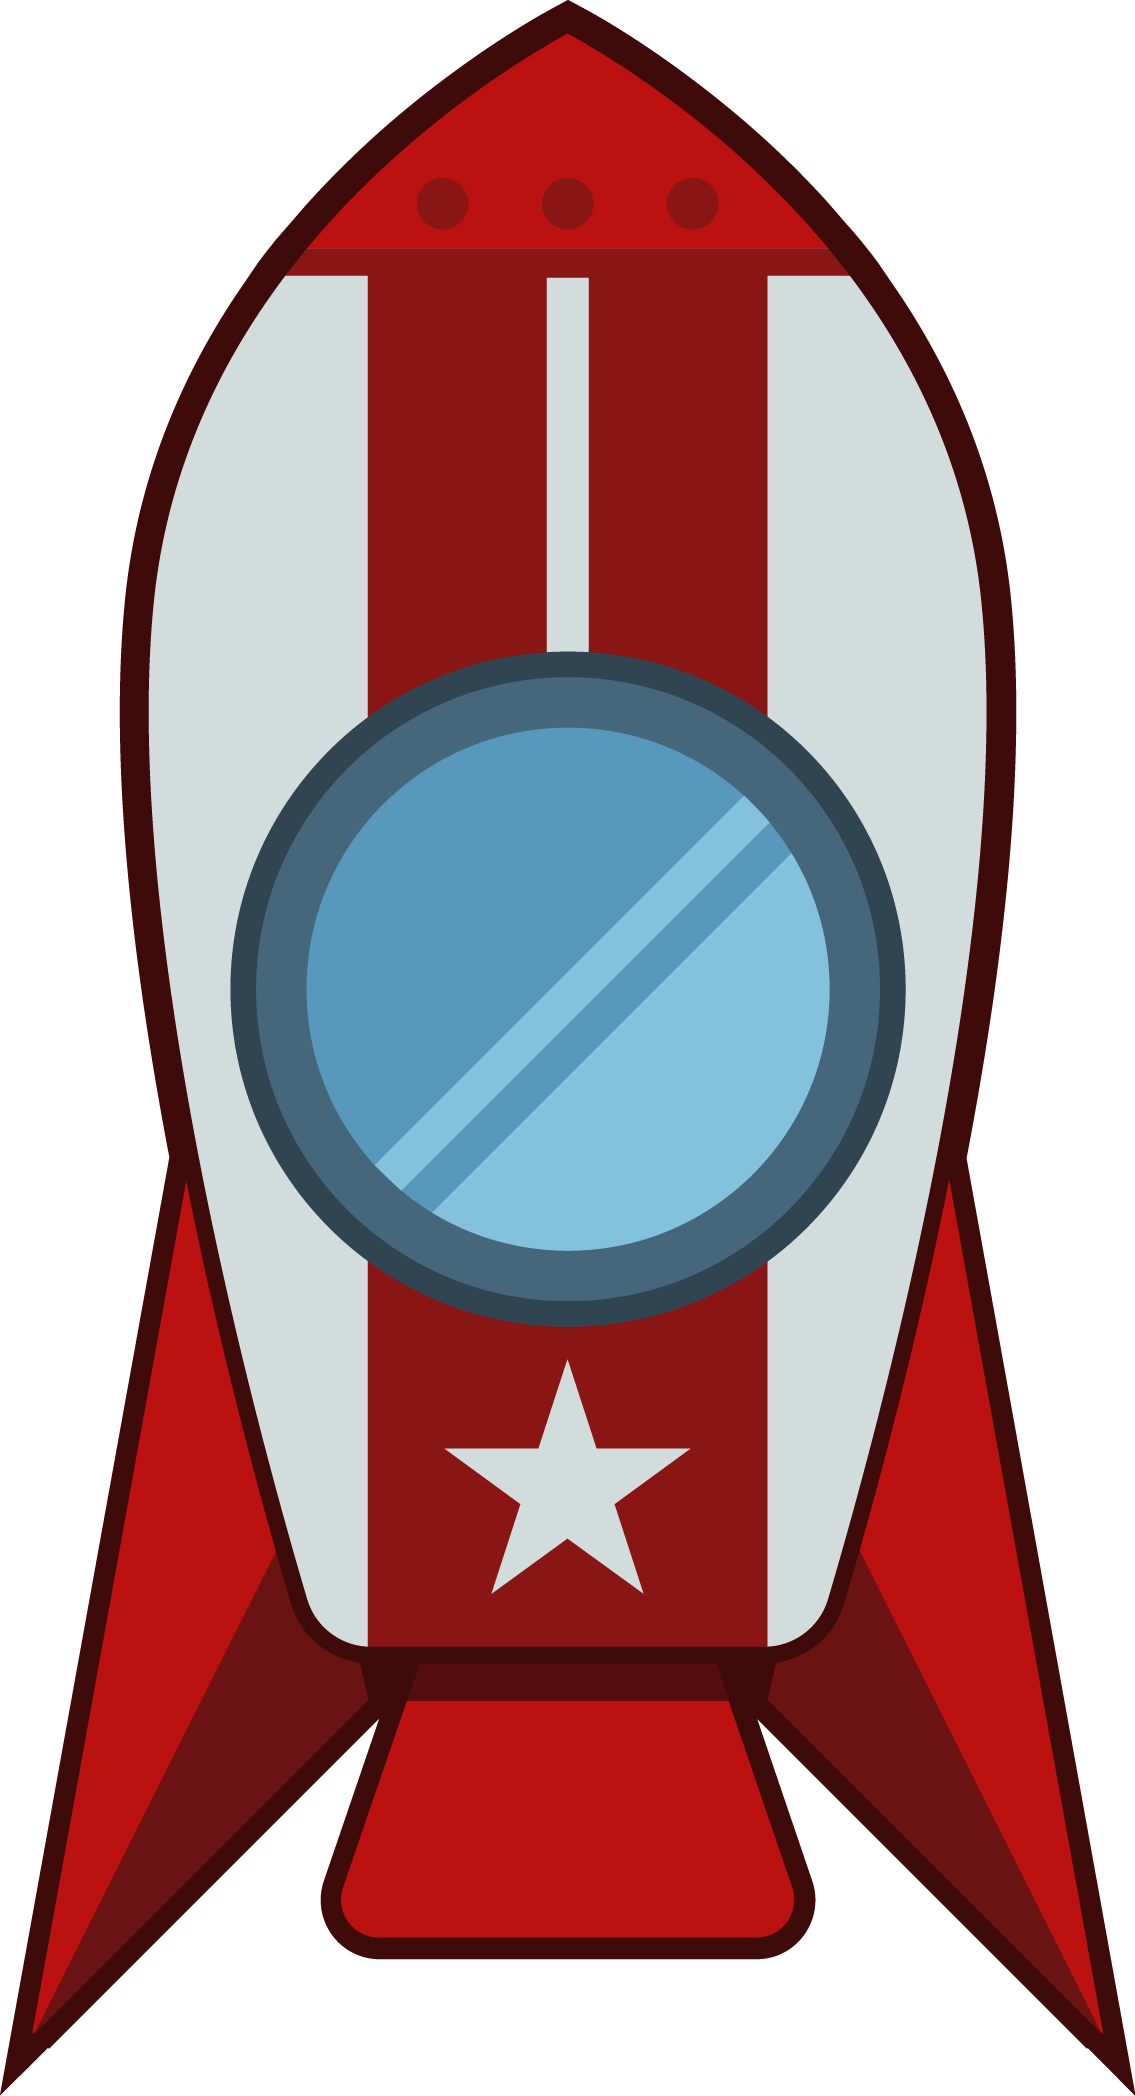
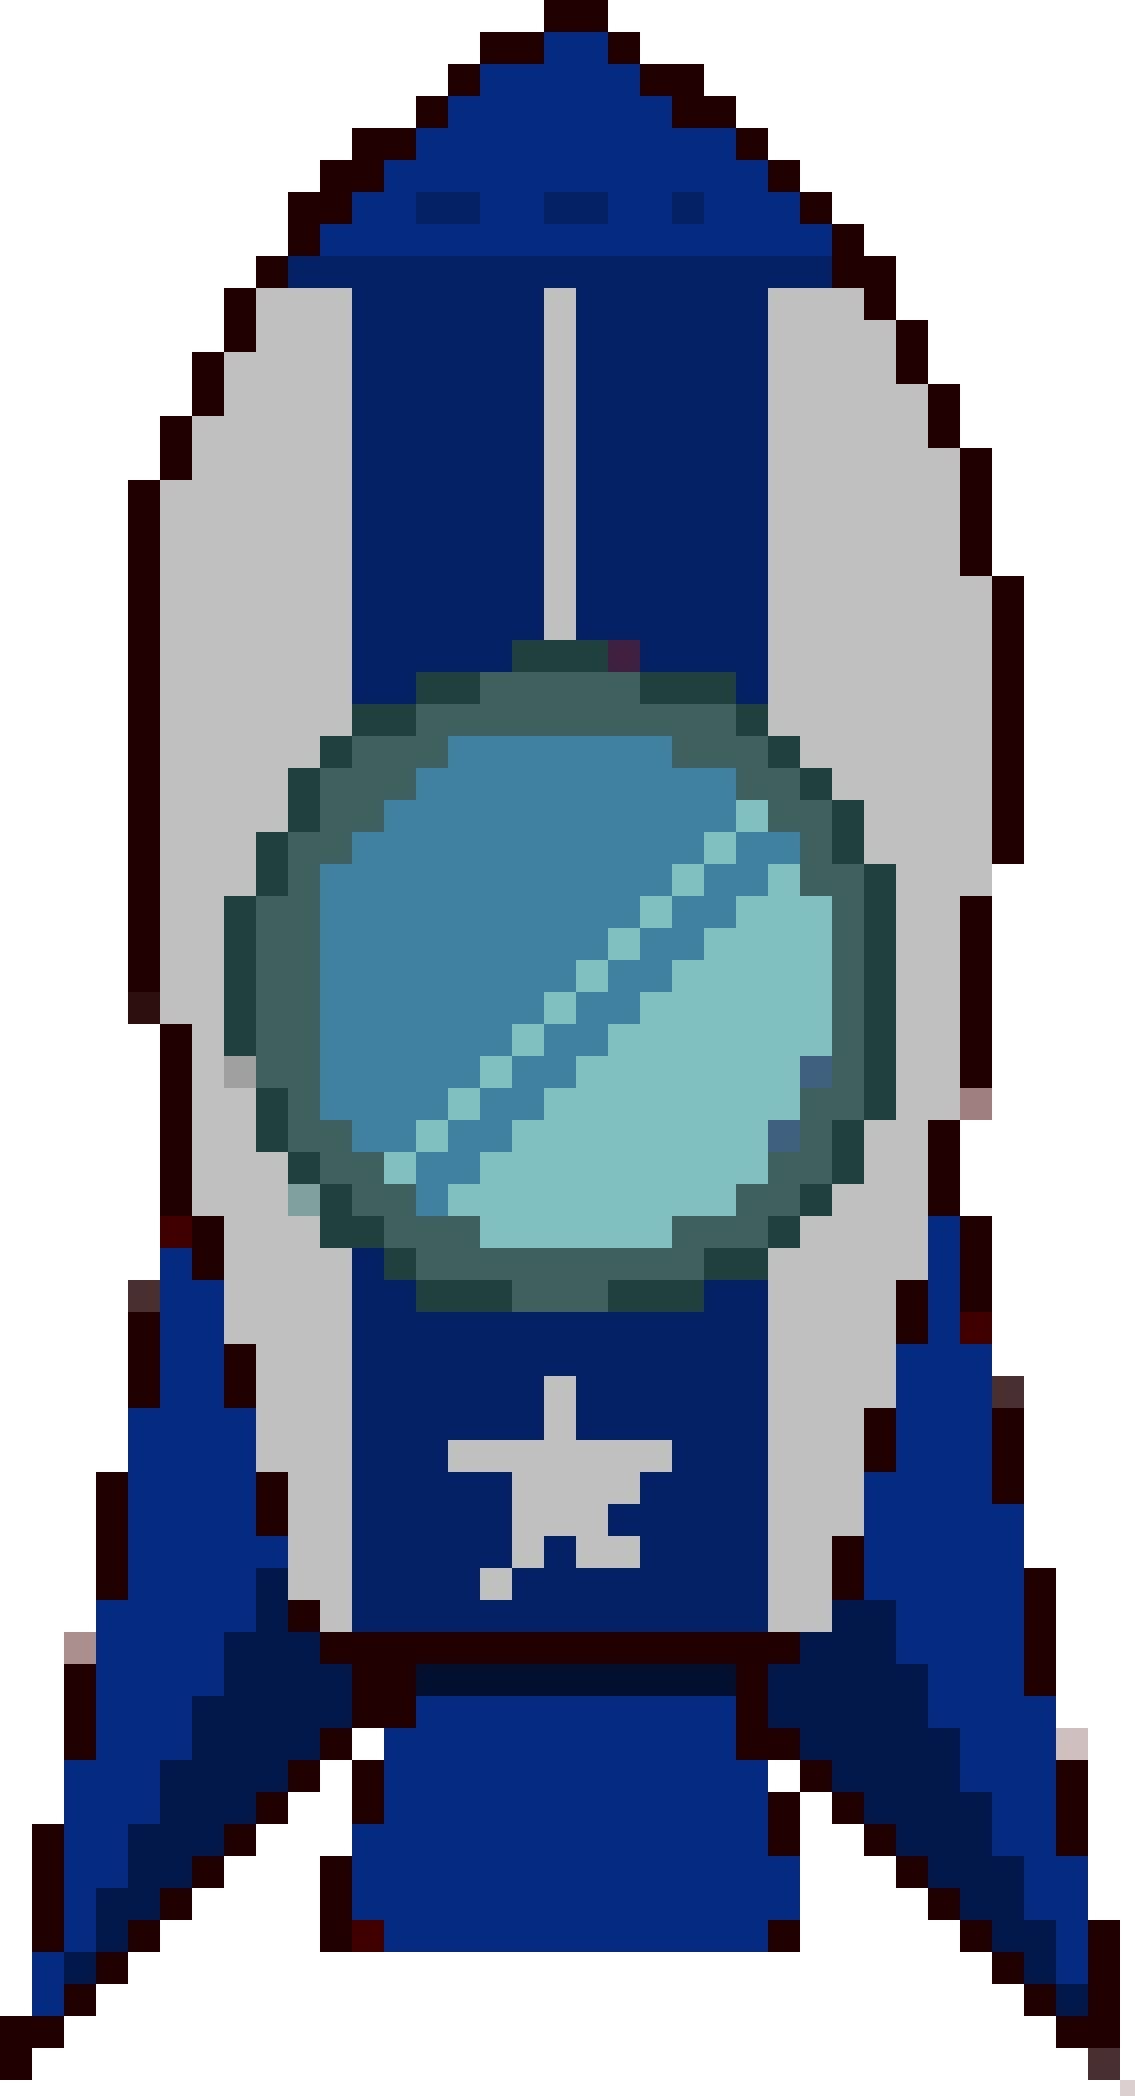
Changed color of ship, added enemy and broken shoot function, placement of projectile needs adjusted

diff --git a/src/scenes/level1.ts b/src/scenes/level1.ts
@@ -16,25 +16,75 @@ export default class level1 extends Phaser.Scene {
   }
 
   editorCreate(): void {
-    // rockets_WhiteRed___5
-    const rockets_WhiteRed___5 = this.add.image(
-      156,
-      450,
-      "Rockets-WhiteRed - 5"
-    );
-    rockets_WhiteRed___5.scaleX = 0.1;
-    rockets_WhiteRed___5.scaleY = 0.1;
-    rockets_WhiteRed___5.angle = 90;
+    // sky
+    const sky = this.add.tileSprite(791, 479, 4093, 2389, "jungle-sky");
+    sky.scaleX = 0.4;
+    sky.scaleY = 0.4;
+
+    // playerRocket
+    const playerRocket = this.add.sprite(156, 450, "Rockets-WhiteRed - 5");
+    playerRocket.scaleX = 0.1;
+    playerRocket.scaleY = 0.1;
+    playerRocket.angle = 90;
+
+    // rockets_Blue___29
+    const rockets_Blue___29 = this.add.image(1360, 178, "Rockets-Blue - 29");
+    rockets_Blue___29.scaleX = 0.05;
+    rockets_Blue___29.scaleY = 0.05;
+    rockets_Blue___29.flipX = true;
+
+    this.sky = sky;
+    this.playerRocket = playerRocket;
 
     this.events.emit("scene-awake");
   }
 
+  private sky!: Phaser.GameObjects.TileSprite;
+  private playerRocket!: Phaser.GameObjects.Sprite;
+
   /* START-USER-CODE */
+  private cursors: Phaser.Types.Input.Keyboard.CursorKeys | null = null;
 
   // Write your code here
 
   create() {
     this.editorCreate();
+    this.physics.add.existing(this.playerRocket);
+    if (!(this.playerRocket.body instanceof Phaser.Physics.Arcade.Body)) {
+      throw new Error("Incorrect Sprite Type");
+    }
+    this.playerRocket.body.setAllowGravity(false);
+    this.cursors = this.input.keyboard.createCursorKeys();
+  }
+  update(time: number, delta: number): void {
+    if (this.cursors?.up.isDown) {
+      this.playerRocket.body.velocity.y = -400;
+    } else if (this.cursors?.down.isDown) {
+      this.playerRocket.body.velocity.y = 400;
+    } else {
+      this.playerRocket.body.velocity.y = 0;
+    }
+    if (this.cursors?.left.isDown) {
+      this.playerRocket.body.velocity.x = -400;
+    } else if (this.cursors?.right.isDown) {
+      this.playerRocket.body.velocity.x = 400;
+    } else {
+      this.playerRocket.body.velocity.x = 0;
+    }
+    this.cameras.main.scrollX++;
+    this.playerRocket.setScrollFactor(0);
+    this.sky.setScrollFactor(0);
+    this.sky.tilePositionX++;
+    if (this.cursors) {
+      if (Phaser.Input.Keyboard.JustDown(this.cursors?.space)) {
+        let shot = this.physics.add.sprite(
+          this.playerRocket.x + this.playerRocket.width / 2,
+          this.playerRocket.y,
+          "baseShot"
+        );
+        shot.body.setVelocityX(400).setAllowGravity(false);
+      }
+    }
   }
 
   /* END-USER-CODE */

diff --git a/src/scenes/Level.ts b/src/scenes/Level.ts
@@ -8,30 +8,32 @@ import PushOnClick from "../components/PushOnClick";
 /* END-USER-IMPORTS */
 
 export default class Level extends Phaser.Scene {
-  constructor() {
-    super("Level");
 
-    /* START-USER-CTR-CODE */
+	constructor() {
+		super("Level");
+
+		/* START-USER-CTR-CODE */
     // Write your code here.
     /* END-USER-CTR-CODE */
-  }
+	}
 
-  editorCreate(): void {
-    // fufuSuperDino
-    const fufuSuperDino = this.add.image(400, 235, "FufuSuperDino");
+	editorCreate(): void {
 
-    // text
-    const text = this.add.text(400, 436, "", {});
-    text.text = "Phaser 3 + Phaser Editor 2D\nWebpack + TypeScript";
-    text.setStyle({ align: "center", fontFamily: "Arial", fontSize: "3em" });
+		// fufuSuperDino
+		const fufuSuperDino = this.add.image(400, 235, "FufuSuperDino");
 
-    // fufuSuperDino (components)
-    new PushOnClick(fufuSuperDino);
+		// text
+		const text = this.add.text(400, 436, "", {});
+		text.text = "Phaser 3 + Phaser Editor 2D\nWebpack + TypeScript";
+		text.setStyle({ "align": "center", "fontFamily": "Arial", "fontSize": "3em" });
 
-    this.events.emit("scene-awake");
-  }
+		// fufuSuperDino (components)
+		new PushOnClick(fufuSuperDino);
 
-  /* START-USER-CODE */
+		this.events.emit("scene-awake");
+	}
+
+	/* START-USER-CODE */
 
   // Write your code here
 

diff --git a/src/scenes/Preload.ts b/src/scenes/Preload.ts
@@ -9,32 +9,34 @@ import assetPackUrl from "../../static/assets/asset-pack.json";
 /* END-USER-IMPORTS */
 
 export default class Preload extends Phaser.Scene {
-  constructor() {
-    super("Preload");
 
-    /* START-USER-CTR-CODE */
+	constructor() {
+		super("Preload");
+
+		/* START-USER-CTR-CODE */
     // Write your code here.
     /* END-USER-CTR-CODE */
-  }
+	}
 
-  editorCreate(): void {
-    // guapen
-    const guapen = this.add.image(400, 219, "guapen");
-    guapen.scaleX = 0.5915891440784282;
-    guapen.scaleY = 0.5915891440784282;
+	editorCreate(): void {
 
-    // progress
-    const progress = this.add.text(400, 349, "", {});
-    progress.text = "0%";
-    progress.setStyle({ fontSize: "30px" });
+		// guapen
+		const guapen = this.add.image(400, 219, "guapen");
+		guapen.scaleX = 0.5915891440784282;
+		guapen.scaleY = 0.5915891440784282;
 
-    // progress (components)
-    new PreloadText(progress);
+		// progress
+		const progress = this.add.text(400, 349, "", {});
+		progress.text = "0%";
+		progress.setStyle({ "fontSize": "30px" });
 
-    this.events.emit("scene-awake");
-  }
+		// progress (components)
+		new PreloadText(progress);
 
-  /* START-USER-CODE */
+		this.events.emit("scene-awake");
+	}
+
+	/* START-USER-CODE */
 
   // Write your code here
 

diff --git a/src/index.ts b/src/index.ts
@@ -24,6 +24,13 @@ window.addEventListener("load", function () {
     width: 1600,
     height: 900,
     backgroundColor: "#2f2f2f",
+    physics: {
+      default: "arcade",
+      arcade: {
+        gravity: { y: 1000 },
+        //debug: true,
+      },
+    },
     scale: {
       mode: Phaser.Scale.ScaleModes.FIT,
       autoCenter: Phaser.Scale.Center.CENTER_BOTH,
